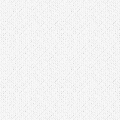
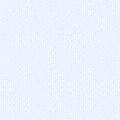
sdsd

diff --git a/css/custom.css b/css/custom.css
@@ -9,10 +9,11 @@
 	font-style:normal;
 }
 body{
-	background-color:#fcfcfc;
+	
 	font-family:koodak;
 	direction:rtl;
 	font-size:16px;
+	background-image:url(../images/body-bg.png);
 	}
 .logo{
 	padding-top:10px;
@@ -53,7 +54,7 @@ background: linear-gradient(to bottom, #37B3E0 0px, #0A92D7 100%) repeat scroll 
 	color:#fff;
 	}
 .header-bg{
-	background: #eee;
+	background-image:url(../images/body-bg1.png);
 border-bottom: 1px solid #ECE7DC;
 	}
 .header-bottom{
@@ -81,7 +82,7 @@ border-radius: 0px 0px 5px 5px;
 
 	}
 .header-bg1{
-	background: none repeat scroll 0% 0% #F4F1E7;
+	background-image:url(../images/body-bg2.png);
 border-top: 1px solid #FFF;
 padding-bottom: 5px;
 	}
@@ -93,14 +94,15 @@ padding-bottom: 5px;
 	}
 .footer{
 	width:100%;
-	background: linear-gradient(to bottom, #efebdd 0px, #f6f4ed 66%, #ebe7d9 100%) repeat scroll 0 0 transparent;
+	
 	border-top:1px solid #37b3e0;
 	height:200px;
+	background-image:url(../images/body-bg1.png);
 	}
 .footer-end{
 	width:100%;
-	background-color:#bebbae;
 	height:50px;
+	background-image:url(../images/body-bg2.png);
 	}
 .panel-default > .panel-heading{
 	background: linear-gradient(to bottom, #37b3e0 0px, #0a92d7 100%) repeat scroll 0 0 transparent;
